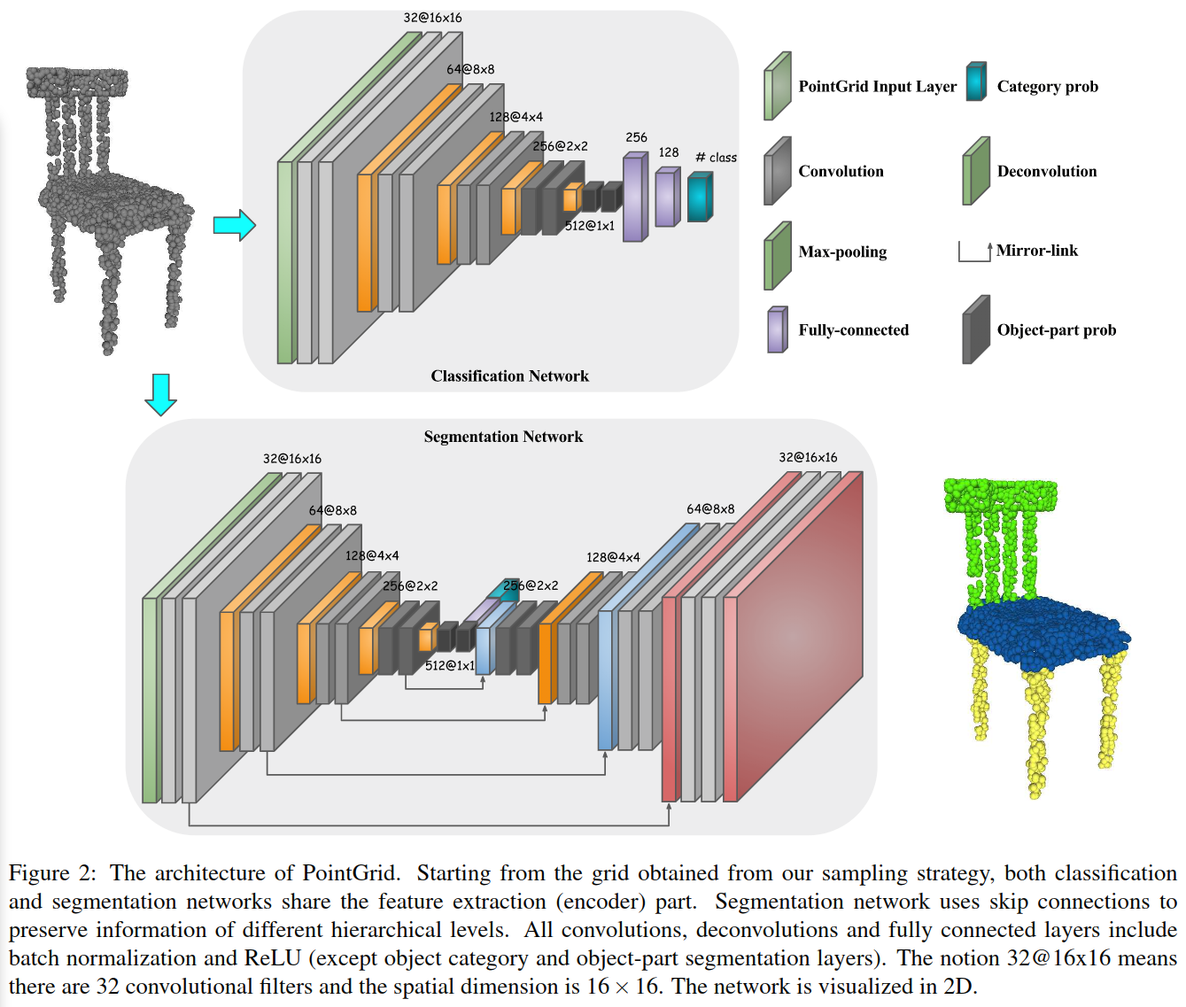
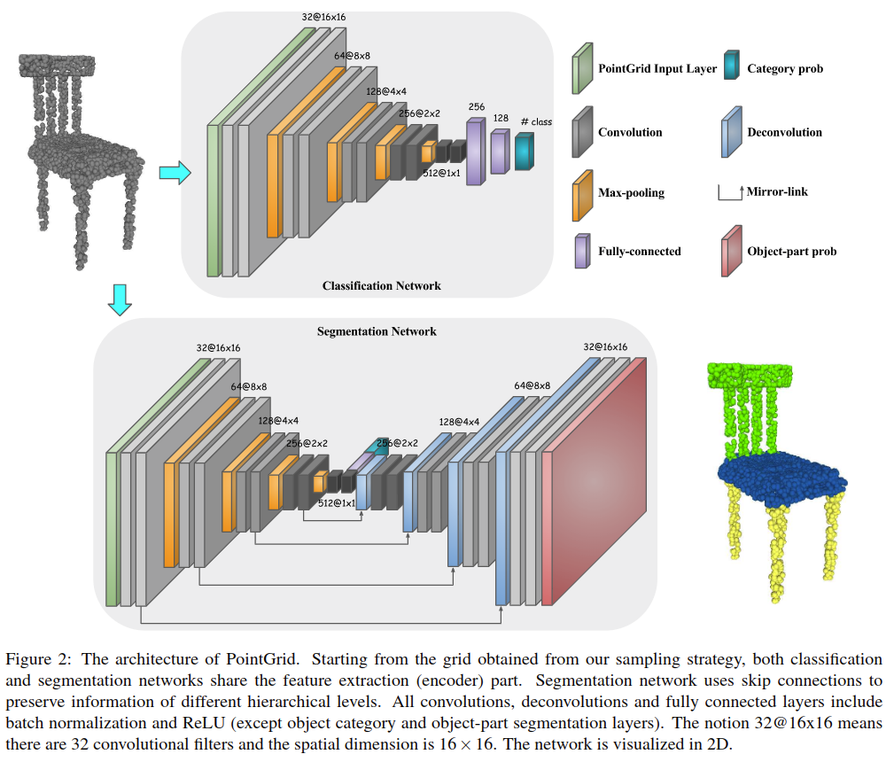
update

diff --git a/js/list.js b/js/list.js
@@ -1,4 +1,4 @@
-function information_list(){ return [['3D Graph Embedding Learning with a Structure-aware Loss Function for Point Cloud Semantic Instance Segmentation','Point Cloud,Semantic Segmentation,Instance Segmentation','2019','更新済'],['3D Point Cloud Registration for Localization using a Deep Neural Network Auto-Encoder','Registration,Point Cloud,AutoEncoder','2017','修正'],['3D Semantic Segmentation with Submanifold Sparse Convolutional Networks','Point Cloud,Sparsity,Semantic Segmentation','2017','省略'],['Adaptive O-CNN A Patch-based Deep Representation of 3D Shapes','Classification,Voxel','2018','更新済'],['Associatively Segmenting Instances and Semantics in Point Clouds','Point Cloud,Instance Segmentation,Semantic Segmentation','2019','更新済'],['Boosting Self-Supervised Learning via Knowledge Transfer','2D Image,Classification,Self-Supervised Learning','2018','省略'],['CNN-SLAM Real-time dense monocular SLAM with learned depth prediction','2D Image,SLAM','2017','修正'],['Conditional Image Synthesis With Auxiliary Classifier GANs','2D Image,GAN','2016','更新済'],['Context Prediction for Unsupervised Deep Learning on Point Clouds','Classification,Point Cloud,Semantic Segmentation,Self-Supervised Learning','2019','更新済'],['Cost-Effective Active Learning for Deep Image Classification','2D Image,Active Learning','2017','未完'],['Deep Clustring for Unsupervised Learning of Visual Features','2D Image,Self-Supervised Learning','2018','省略'],['Deep One-Class Classification','2D Image,One-Class & Anomaly Detection','2018','更新済'],['DeformNet Free-Form Deformation Network for 3D Shape Reconstruction from a Single Image','2D Image,Voxel,3D Estimation','2017','参照'],['Discriminative Unsupervised Feature Learning with Convolutional Neural Networks','2D Image,Data Augmentation','2014','未完'],['Dynamic Edge-Conditioned Filters in Convolutional Neural Networks on Graphs','Graph,Point Cloud','2017','未完'],['Dynamic Graph CNN for Learning on Point Cloud','Classification,Point Cloud,Semantic Segmentation','2018','更新済'],['Fast R-CNN','Detection,2D Image','2015','省略'],['Faster R-CNN Towards Real-Time Object Detection with Region Proposal Networks','2D Image,Detection,Semantic Segmentation','2015','省略'],['FlowNet3D Learning Scene Flow in 3D Point Clouds','Point Cloud,Flow Estimation','2018','更新済'],['FoldingNet Point Cloud Auto-encoder via Deep Grid Deformation','Point Cloud,AutoEncoder','2017','更新済'],['Frustum PointNets for 3D Object Detection from RGB-D Data','Point Cloud,Detection,2D Image','2017','未完'],['Fully Convolutional Instance-aware Semantic Segmentation','2D Image,Instance Segmentation','2016','未完'],['GSPN Generative Shape Proposal Network for 3D Instance Segmentation in Point Cloud','Point Cloud,Semantic Segmentation,Instance Segmentation','2018','未完'],['Generating 3D Adversarial Point Clouds','Point Cloud,Adversarial Examples','2018','更新済'],['Generating Mesh-based Shapes From Learned Latent Spaces of Point Clouds with VAE-GAN','Point Cloud,GAN,Mesh','2018','更新済'],['Grad-CAM Visual Explanations from Deep Networks via Gradient-based Localization','2D Image,Analytics','2016','更新済'],['High-Resolution Image Synthesis and Semantic Manipulation with Conditional GANs','2D Image,GAN,Semantic Segmentation','2017','更新済'],['ImageNet-trained CNNs are biased towards texture increasing shape bias improves accuracy and robustness','2D Image,Analytics','2018','更新済'],['Improving Few-Shot User-Specific Gaze Adaptation via Gaze Redirection Synthesis','Few-Shot,Self-Supervised Learning,Domain Adaptation,Gaze Estimation,Synthetic','2019','省略'],['Improving Spatiotemporal Self-Supervision by Deep Reinforcement Learning','Reinforcement Learning,Self-Supervised Learning','2018','省略'],['Interpreting Deep Visual Representations via Network Dissection','2D Image,Analytics,Interpretability','2017','省略'],['LBS Autoencoder Self-supervised Fitting of Articulated Meshes to Point Clouds','Point Cloud,Self-Supervised Learning,AutoEncoder,Mesh','2019','省略'],['LSD-SLAM Large-Scale Direct Monocular SLAM','SLAM,2D Image','2014','未完'],['Label-Noise Robust Generative Adversarial Networks','GAN,2D Image','2018','省略'],['Learning Feature Representations with K-means','2D Image','2012','未完'],['Learning Localized Generative Models for 3D Point Clouds via Graph Convolution','Point Cloud,GAN','2018','更新済'],['Learning Representations and Generative Models for 3D Point Clouds','AutoEncoder,Classification,GAN,Point Cloud','2017','更新済'],['Learning Shape Priors for Single-View 3D Completion and Reconstruction','2D Image,Voxel,3D Estimation','2018','更新済'],['Learning a Probabilistic Latent Space of Object Shapes  via 3D Generative-Adversarial Modeling','Voxel,GAN','2016','更新済'],['Learning deep representations by mutual information estimation and maximization','2D Image,Self-Supervised Learning','2018','未完'],['Learning from Massive Noisy Labeled Data for Image Classification','2D Image','2015','省略'],['Learning from Simulated and Unsupervised Images through Adversarial Training','GAN,Synthetic,2D Image','2016','更新済'],['MarrNet 3D Shape Reconstruction via 2.5D Sketches','2D Image,Voxel,3D Estimation','2017','更新済'],['Mean Shift A Robust Approach toward Feature Space Analysis','Point Cloud,2D Image','2002','参照'],['Mining Point Cloud local Structures by Kernel Correlation and Graph Pooling','Point Cloud,Classification,Semantic Segmentation','2018','更新済'],['Object Detectors Emerge in Deep Scene CNNs','2D Image','2014','未完'],['Object-Contrastive Networks Unsupervised Object Representations','2D Image,Detection','2018','未完'],['Occupancy Networks Learning 3D Reconstruction in Function Space','2D Image,Voxel,Point Cloud,Mesh,3D Estimation','2018','更新済'],['OctNet Learning Deep 3D Representations at High Resolutions','Voxel,Point Cloud,Classification,Semantic Segmentation','2016','更新済'],['PPFNet Global Context Aware Local Features for Robust 3D Point Matching','Point Cloud,Registration','2018','更新済'],['Parallel Tracking and Mapping for Small AR Workspaces','SLAM,2D Image','2007','未完'],['PartNet A Recursive Part Decomposition Network for Fine-grained and Hierarchical Shape Segmentation','Point Cloud,Instance Segmentation,Semantic Segmentation,TreeRNN','2019','更新済'],['Pix3D Dataset and Methods for Single-Image 3D Shape Modeling','3D Estimation,2D Image,Voxel,Dataset','2018','更新済'],['Point Cloud Colorization Based on Densely Annotated 3D Shape Dataset','Point Cloud,Dataset,GAN','2018','更新済'],['Point Cloud Oversegmentation with Graph-Structured Deep Metric Learning','Point Cloud','2019','未完'],['Point2Sequence Learning the Shape Representation of 3D Point Clouds with an Attention-based Sequence to Sequence Network','Classification,Point Cloud,Semantic Segmentation,RNN','2018','更新済'],['PointGrid A Deep Network for 3D Shape Understanding','Point Cloud','2018','未完'],['PointNet Deep Learning on Point Sets for 3D Classification and Segmentation','Classification,Point Cloud,Semantic Segmentation','2016','更新済'],['PointNet++ Deep Hierarchical Feature Learning on Point Sets in a Metric Space','Point Cloud,Classification,Semantic Segmentation','2017','未完'],['PointNetLK Robust & Efficient Point Cloud Registration using PointNet','Point Cloud','2019','未完'],['PointRCNN 3D Object Proposal Generation and Detection from Point Cloud','Point Cloud,Detection','2018','未完'],['Pointwise Convolutional Neural Networks','Point Cloud,Classification,Semantic Segmentation','2017','更新済'],['Recent Progress on Generative Adversarial Networks (GANs) A Survey','GAN,Survey','2019','更新済'],['Recurrent Slice Networks for 3D Segmentation of Point Clouds','Point Cloud,Semantic Segmentation,RNN','2018','更新済'],['Representation Learning by Learning to Count','2D Image,Self-Supervised Learning','2017','更新済'],['Representation Tradeoffs for Hyperbolic Embeddings','','2018','未完'],['Rich feature hierarchies for accurate object detection and semantic segmentation ','2D Image,Detection','2013','省略'],['SGPN Similarity Group Proposal Network for 3D Point Cloud Instance Segmentation','Point Cloud,Instance Segmentation,Semantic Segmentation','2017','更新済'],['SelFlow Self-Supervised Learning of Optical Flow','2D Image,Flow Estimation,Self-Supervised Learning','2019','省略'],['Self-Supervised Audio-Visual Co-Segmentation','Self-Supervised Learning,Video','2019','省略'],['Self-Supervised Feature Learning by Learning to Spot Artifacts','2D Image,Self-Supervised Learning','2018','省略'],['Self-Supervised Relative Depth Learning for Urban Scene Understanding','Self-Supervised Learning,Depth Estimation,Domain Adaptation','2017','未完'],['Shuffle and Learn Unsupervised Learning using Temporal Order Verification','Video,Self-Supervised Learning','2016','省略'],['SiCloPe Silhouette-Based Clothed People','2D Image,3D Estimation','2018','修正'],['Sparse 3D convolutional neural networks','Voxel,Sparsity','2015','省略'],['Sparse Convolutional Neural Networks','2D Image,Sparsity','2015','未完'],['Spatially-sparse convolutional neural networks','2D Image,Sparsity','2014','省略'],['Tangent Convolutions for Dense Prediction in 3D','Point Cloud,Semantic Segmentation','2018','修正'],['Temporal Cycle-Consistency Learning','Video,Self-Supervised Learning,Few-Shot','2019','未完'],['The Sound of Pixels','Video','2018','未完'],['Time-Contrastive Networks Self-Supervised Learning from Video','Video,Self-Supervised Learning,Robot','2017','省略'],['Towards Human-Machine Cooperation Self-supervised Sample Mining for Object Detection','2D Image,Active Learning','2018','未完'],['Unpaired Image-to-Image Translation using Cycle-Consistent Adversarial Networks','2D Image,GAN','2017','参照'],['Unsupervised Anomaly Detection with Generative Adversarial Networks to Guide Marker Discovery','2D Image,GAN,One-Class & Anomaly Detection','2017','更新済'],['Unsupervised Deep Learning of Mid-Level Video Representation for Action Recognition','Video','2018','未完'],['Unsupervised Domain Adaptation for Semantic Segmentation via Class-Balanced Self-Training','Domain Adaptation,2D Image','2018','更新済'],['Unsupervised Image Segmentation by Backpropagation','2D Image','2018','省略'],['Unsupervised Learning by Predicting Noise','2D Image,Self-Supervised Learning','2017','未完'],['Unsupervised Learning of Depth and Ego-Motion from Video','Video','2017','未完'],['Unsupervised Learning of Shape and Pose with Differentiable Point Clouds','2D Image,Point Cloud,3D Estimation','2018','更新済'],['Unsupervised Learning of Visual Representations by Solving Jigsaw Puzzles','2D Image,Classification,Self-Supervised Learning','2016','更新済'],['Unsupervised Object Segmentation in Video by Efficient Selection of Highly Probable Positive Features','2D Image','2017','未完'],['Unsupervised Representation Learning by Predicting Image Rotations','2D Image,Self-Supervised Learning','2018','更新済'],['Unsupervised Representation Learning with Deep Convolutional Generative Adversarial Networks','GAN,2D Image','2015','更新済'],['Unsupervised Visual Representation Learning by Context Prediction','2D Image,Classification,Self-Supervised Learning','2015','更新済'],['VoxelNet End-to-End Learning for Point Cloud Based 3D Object Detection','Detection,Point Cloud','2017','更新済']]}
+function information_list(){ return [['3D Graph Embedding Learning with a Structure-aware Loss Function for Point Cloud Semantic Instance Segmentation','Point Cloud,Semantic Segmentation,Instance Segmentation','2019','更新済'],['3D Point Cloud Registration for Localization using a Deep Neural Network Auto-Encoder','Registration,Point Cloud,AutoEncoder','2017','修正'],['3D Semantic Segmentation with Submanifold Sparse Convolutional Networks','Point Cloud,Sparsity,Semantic Segmentation','2017','省略'],['Adaptive O-CNN A Patch-based Deep Representation of 3D Shapes','Classification,Voxel','2018','更新済'],['Associatively Segmenting Instances and Semantics in Point Clouds','Point Cloud,Instance Segmentation,Semantic Segmentation','2019','更新済'],['Boosting Self-Supervised Learning via Knowledge Transfer','2D Image,Classification,Self-Supervised Learning','2018','省略'],['CNN-SLAM Real-time dense monocular SLAM with learned depth prediction','2D Image,SLAM','2017','修正'],['Conditional Image Synthesis With Auxiliary Classifier GANs','2D Image,GAN','2016','更新済'],['Context Prediction for Unsupervised Deep Learning on Point Clouds','Classification,Point Cloud,Semantic Segmentation,Self-Supervised Learning','2019','更新済'],['Cost-Effective Active Learning for Deep Image Classification','2D Image,Active Learning','2017','未完'],['Deep Clustring for Unsupervised Learning of Visual Features','2D Image,Self-Supervised Learning','2018','省略'],['Deep One-Class Classification','2D Image,One-Class & Anomaly Detection','2018','更新済'],['DeformNet Free-Form Deformation Network for 3D Shape Reconstruction from a Single Image','2D Image,Voxel,3D Estimation','2017','参照'],['Discriminative Unsupervised Feature Learning with Convolutional Neural Networks','2D Image,Data Augmentation','2014','未完'],['Dynamic Edge-Conditioned Filters in Convolutional Neural Networks on Graphs','Graph,Point Cloud','2017','未完'],['Dynamic Graph CNN for Learning on Point Cloud','Classification,Point Cloud,Semantic Segmentation','2018','更新済'],['Fast R-CNN','Detection,2D Image','2015','省略'],['Faster R-CNN Towards Real-Time Object Detection with Region Proposal Networks','2D Image,Detection,Semantic Segmentation','2015','省略'],['FlowNet3D Learning Scene Flow in 3D Point Clouds','Point Cloud,Flow Estimation','2018','更新済'],['FoldingNet Point Cloud Auto-encoder via Deep Grid Deformation','Point Cloud,AutoEncoder','2017','更新済'],['Frustum PointNets for 3D Object Detection from RGB-D Data','Point Cloud,Detection,2D Image','2017','未完'],['Fully Convolutional Instance-aware Semantic Segmentation','2D Image,Instance Segmentation','2016','未完'],['GSPN Generative Shape Proposal Network for 3D Instance Segmentation in Point Cloud','Point Cloud,Semantic Segmentation,Instance Segmentation','2018','未完'],['Generating 3D Adversarial Point Clouds','Point Cloud,Adversarial Examples','2018','更新済'],['Generating Mesh-based Shapes From Learned Latent Spaces of Point Clouds with VAE-GAN','Point Cloud,GAN,Mesh','2018','更新済'],['Grad-CAM Visual Explanations from Deep Networks via Gradient-based Localization','2D Image,Analytics','2016','更新済'],['High-Resolution Image Synthesis and Semantic Manipulation with Conditional GANs','2D Image,GAN,Semantic Segmentation','2017','更新済'],['ImageNet-trained CNNs are biased towards texture increasing shape bias improves accuracy and robustness','2D Image,Analytics','2018','更新済'],['Improving Few-Shot User-Specific Gaze Adaptation via Gaze Redirection Synthesis','Few-Shot,Self-Supervised Learning,Domain Adaptation,Gaze Estimation,Synthetic','2019','省略'],['Improving Spatiotemporal Self-Supervision by Deep Reinforcement Learning','Reinforcement Learning,Self-Supervised Learning','2018','省略'],['Interpreting Deep Visual Representations via Network Dissection','2D Image,Analytics,Interpretability','2017','省略'],['LBS Autoencoder Self-supervised Fitting of Articulated Meshes to Point Clouds','Point Cloud,Self-Supervised Learning,AutoEncoder,Mesh','2019','省略'],['LSD-SLAM Large-Scale Direct Monocular SLAM','SLAM,2D Image','2014','未完'],['Label-Noise Robust Generative Adversarial Networks','GAN,2D Image','2018','省略'],['Learning Feature Representations with K-means','2D Image','2012','未完'],['Learning Localized Generative Models for 3D Point Clouds via Graph Convolution','Point Cloud,GAN','2018','更新済'],['Learning Representations and Generative Models for 3D Point Clouds','AutoEncoder,Classification,GAN,Point Cloud','2017','更新済'],['Learning Shape Priors for Single-View 3D Completion and Reconstruction','2D Image,Voxel,3D Estimation','2018','更新済'],['Learning a Probabilistic Latent Space of Object Shapes  via 3D Generative-Adversarial Modeling','Voxel,GAN','2016','更新済'],['Learning deep representations by mutual information estimation and maximization','2D Image,Self-Supervised Learning','2018','未完'],['Learning from Massive Noisy Labeled Data for Image Classification','2D Image','2015','省略'],['Learning from Simulated and Unsupervised Images through Adversarial Training','GAN,Synthetic,2D Image','2016','更新済'],['MarrNet 3D Shape Reconstruction via 2.5D Sketches','2D Image,Voxel,3D Estimation','2017','更新済'],['Mean Shift A Robust Approach toward Feature Space Analysis','Point Cloud,2D Image','2002','参照'],['Mining Point Cloud local Structures by Kernel Correlation and Graph Pooling','Point Cloud,Classification,Semantic Segmentation','2018','更新済'],['Object Detectors Emerge in Deep Scene CNNs','2D Image','2014','未完'],['Object-Contrastive Networks Unsupervised Object Representations','2D Image,Detection','2018','未完'],['Occupancy Networks Learning 3D Reconstruction in Function Space','2D Image,Voxel,Point Cloud,Mesh,3D Estimation','2018','更新済'],['OctNet Learning Deep 3D Representations at High Resolutions','Voxel,Point Cloud,Classification,Semantic Segmentation','2016','更新済'],['PPFNet Global Context Aware Local Features for Robust 3D Point Matching','Point Cloud,Registration','2018','更新済'],['Parallel Tracking and Mapping for Small AR Workspaces','SLAM,2D Image','2007','未完'],['PartNet A Recursive Part Decomposition Network for Fine-grained and Hierarchical Shape Segmentation','Point Cloud,Instance Segmentation,Semantic Segmentation,TreeRNN','2019','更新済'],['Pix3D Dataset and Methods for Single-Image 3D Shape Modeling','3D Estimation,2D Image,Voxel,Dataset','2018','更新済'],['Point Cloud Colorization Based on Densely Annotated 3D Shape Dataset','Point Cloud,Dataset,GAN','2018','更新済'],['Point Cloud Oversegmentation with Graph-Structured Deep Metric Learning','Point Cloud','2019','未完'],['Point2Sequence Learning the Shape Representation of 3D Point Clouds with an Attention-based Sequence to Sequence Network','Classification,Point Cloud,Semantic Segmentation,RNN','2018','更新済'],['PointGrid A Deep Network for 3D Shape Understanding','Point Cloud,Classification,Semantic Segmentation','2018','更新済'],['PointNet Deep Learning on Point Sets for 3D Classification and Segmentation','Classification,Point Cloud,Semantic Segmentation','2016','更新済'],['PointNet++ Deep Hierarchical Feature Learning on Point Sets in a Metric Space','Point Cloud,Classification,Semantic Segmentation','2017','未完'],['PointNetLK Robust & Efficient Point Cloud Registration using PointNet','Point Cloud','2019','未完'],['PointRCNN 3D Object Proposal Generation and Detection from Point Cloud','Point Cloud,Detection','2018','未完'],['Pointwise Convolutional Neural Networks','Point Cloud,Classification,Semantic Segmentation','2017','更新済'],['Recent Progress on Generative Adversarial Networks (GANs) A Survey','GAN,Survey','2019','更新済'],['Recurrent Slice Networks for 3D Segmentation of Point Clouds','Point Cloud,Semantic Segmentation,RNN','2018','更新済'],['Representation Learning by Learning to Count','2D Image,Self-Supervised Learning','2017','更新済'],['Representation Tradeoffs for Hyperbolic Embeddings','','2018','未完'],['Rich feature hierarchies for accurate object detection and semantic segmentation ','2D Image,Detection','2013','省略'],['SGPN Similarity Group Proposal Network for 3D Point Cloud Instance Segmentation','Point Cloud,Instance Segmentation,Semantic Segmentation','2017','更新済'],['SelFlow Self-Supervised Learning of Optical Flow','2D Image,Flow Estimation,Self-Supervised Learning','2019','省略'],['Self-Supervised Audio-Visual Co-Segmentation','Self-Supervised Learning,Video','2019','省略'],['Self-Supervised Feature Learning by Learning to Spot Artifacts','2D Image,Self-Supervised Learning','2018','省略'],['Self-Supervised Relative Depth Learning for Urban Scene Understanding','Self-Supervised Learning,Depth Estimation,Domain Adaptation','2017','未完'],['Shuffle and Learn Unsupervised Learning using Temporal Order Verification','Video,Self-Supervised Learning','2016','省略'],['SiCloPe Silhouette-Based Clothed People','2D Image,3D Estimation','2018','修正'],['Sparse 3D convolutional neural networks','Voxel,Sparsity','2015','省略'],['Sparse Convolutional Neural Networks','2D Image,Sparsity','2015','未完'],['Spatially-sparse convolutional neural networks','2D Image,Sparsity','2014','省略'],['Tangent Convolutions for Dense Prediction in 3D','Point Cloud,Semantic Segmentation','2018','修正'],['Temporal Cycle-Consistency Learning','Video,Self-Supervised Learning,Few-Shot','2019','未完'],['The Sound of Pixels','Video','2018','未完'],['Time-Contrastive Networks Self-Supervised Learning from Video','Video,Self-Supervised Learning,Robot','2017','省略'],['Towards Human-Machine Cooperation Self-supervised Sample Mining for Object Detection','2D Image,Active Learning','2018','未完'],['Unpaired Image-to-Image Translation using Cycle-Consistent Adversarial Networks','2D Image,GAN','2017','参照'],['Unsupervised Anomaly Detection with Generative Adversarial Networks to Guide Marker Discovery','2D Image,GAN,One-Class & Anomaly Detection','2017','更新済'],['Unsupervised Deep Learning of Mid-Level Video Representation for Action Recognition','Video','2018','未完'],['Unsupervised Domain Adaptation for Semantic Segmentation via Class-Balanced Self-Training','Domain Adaptation,2D Image','2018','更新済'],['Unsupervised Image Segmentation by Backpropagation','2D Image','2018','省略'],['Unsupervised Learning by Predicting Noise','2D Image,Self-Supervised Learning','2017','未完'],['Unsupervised Learning of Depth and Ego-Motion from Video','Video','2017','未完'],['Unsupervised Learning of Shape and Pose with Differentiable Point Clouds','2D Image,Point Cloud,3D Estimation','2018','更新済'],['Unsupervised Learning of Visual Representations by Solving Jigsaw Puzzles','2D Image,Classification,Self-Supervised Learning','2016','更新済'],['Unsupervised Object Segmentation in Video by Efficient Selection of Highly Probable Positive Features','2D Image','2017','未完'],['Unsupervised Representation Learning by Predicting Image Rotations','2D Image,Self-Supervised Learning','2018','更新済'],['Unsupervised Representation Learning with Deep Convolutional Generative Adversarial Networks','GAN,2D Image','2015','更新済'],['Unsupervised Visual Representation Learning by Context Prediction','2D Image,Classification,Self-Supervised Learning','2015','更新済'],['VoxelNet End-to-End Learning for Point Cloud Based 3D Object Detection','Detection,Point Cloud','2017','更新済']]}
 function tag_list(){ return ['','2D Image','3D Estimation','Active Learning','Adversarial Examples','Analytics','AutoEncoder','Classification','Data Augmentation','Dataset','Depth Estimation','Detection','Domain Adaptation','Few-Shot','Flow Estimation','GAN','Gaze Estimation','Graph','Instance Segmentation','Interpretability','Mesh','One-Class & Anomaly Detection','Point Cloud','RNN','Registration','Reinforcement Learning','Robot','SLAM','Self-Supervised Learning','Semantic Segmentation','Sparsity','Survey','Synthetic','TreeRNN','Video','Voxel']}
 function date_tag_list(){ return [2002,2007,2012,2013,2014,2015,2016,2017,2018,2019]}
 function information_list_c(){ return [['Dive into Deep Learning','','????','????'],['Entropy','Entropy','????','????'],['Hyperbolic Geometry','Hyperbolic Geometry','????','????'],['Machine Learning','Math,Optimization,Curriculum learning','????','????'],['Point cloud','Point Cloud,Registration','????','????'],['Preprocessing','Preprocessing,2D Image','????','????'],['SLAM','SLAM,2D Image','????','????'],['Self-Organizing Map','','????','????'],['Self-supervised','Self-supervised,2D Image,Fine-tuning,Transfer learning','????','????'],['Skinning','','????','????']]}

diff --git a/papers/PointGrid A Deep Network for 3D Shape Understanding.md b/papers/PointGrid A Deep Network for 3D Shape Understanding.md
@@ -4,23 +4,51 @@
 Github Issues : 
 
 ## どんなもの?
+点の座標値を特徴量とするボクセルを畳み込むネットワークを提案した。
 
 ## 先行研究と比べてどこがすごいの?
+各セルに体積情報の代わりに点群の座標値を組み込むことで、低解像度なボクセルでも詳細な幾何学情報を扱える様になった。
 
 ## 技術や手法のキモはどこ? or 提案手法の詳細
-本提案手法では占有グリッド(ボクセル表現)を使う手法とは異なり、各セル内に$K$個の点を配置することで出来上がるオブジェクトの点群を処理する。具体的には、図1に含まれる
+本提案手法では占有グリッドを使う手法とは異なり、セル内の$K$個の点(点には座標値が含まれる)を特徴量として畳み込む。オブジェクトの形状(図1の(a))をかたどった点群(図1の(b))が入力されるとき、以下の処理が行われる。
+
+2. 点群を$[-1,1]^3$で正規化する。
+3. 内部に点が含まれているセルのみ点を$K$個にする。セル内の点が$K$個以上である場合は$K$個の点になるようにランダムに点を減らし、$K$個以下である場合は$K$個になるようにセル内の点を複製して増やす(図1の(e))。点が0個であるセルは空のままにする(図1の(e))。論文中ではゼロパディングを模倣したと述べている(図1の(f))。
+4. 結果として$3K$の特徴を持つセルと0のセルで構成された表現になる(点群の座標値を持つボクセル表現)。セル内の点の特徴量をスタックするとあるが、どのようにして$3K$サイズにまとめるのか不明である(見逃した?)。
+5. 各タスク向けに構築されたアーキテクチャに4の表現を入力する(図2)。
 
 ![fig1](img/PADNf3SU/fig1.png)
 
+![fig2](img/PADNf3SU/fig2.png)
+
 ## どうやって有効だと検証した?
+ModelNet40とShapeNet-Core55を使って分類問題を解いた。結果は表1と表2、誤分類した点群モデルは図3に示すとおり。点群では提案手法の精度がPointNet++とKd-Netより0.1%上回っている。表3では$K$とセルの数の変更による提案手法の精度の変化を示している。
+
+![tab1](img/PADNf3SU/tab1.png)
+
+![tab2](img/PADNf3SU/tab2.png)
+
+![fig3](img/PADNf3SU/fig3.png)
+
+![tab3](img/PADNf3SU/tab3.png)
+
+また、図4では提案手法の勾配からアーキテクチャがどの部分に注目しているか視覚化した。色は勾配の大きさを示し、赤は勾配が大きいため点の少しの変化で結果がかなり変わる。青はその逆である。
+
+![fig4](img/PADNf3SU/fig4.png)
+
+### その他
+セマンティックセグメンテーションは省略。
 
 ## 議論はある?
+点の選択方法に例えば[2]を使えば良くなるのでは?
 
 ## 次に読むべき論文は?
 - なし
 
 ## 論文関連リンク
 1. [trucleduc, trucleduc/PointGrid, (アクセス:2019/05/27)](https://github.com/trucleduc/PointGrid)
+2. [Y. Eldar, M. Lindenbaum, M. Porat, and Y. Y. Zeevi. The farthest point strategy for progressive image sampling. IEEE Transactions onImage Processing, 6(9):1305–1315, 9 1997.](https://ieeexplore.ieee.org/document/623193)
+3. [Naoya Chiba. 三次元点群を取り扱うニューラルネットワークのサーベイ. 2018. (アクセス:2019/10/22)](https://www.slideshare.net/naoyachiba18/ss-120302579)
 
 ## 会議
 CVPR 2018
@@ -35,13 +63,13 @@ Truc Le and Ye Duan.
 なし
 
 ## key-words
-Point_Cloud
+Point_Cloud, Classification, Semantic_Segmentation
 
 ## status
-未完
+更新済
 
 ## read
-A, M
+A, M, E, C
 
 ## BibTex
 @article{PointGrid,

diff --git a/papers/Dynamic Edge-Conditioned Filters in Convolutional Neural Networks on Graphs.md b/papers/Dynamic Edge-Conditioned Filters in Convolutional Neural Networks on Graphs.md
@@ -36,5 +36,16 @@ Martin Simonovsky, Nikos Komodakis.
 ## key-words
 Graph, Point_Cloud
 
+## read
+A
+
 ## status
 未完
+
+## BibTex
+@inproceedings{Simonovsky2017ecc,
+    author = {Martin Simonovsky and Nikos Komodakis},
+    title = {Dynamic Edge-Conditioned Filters in Convolutional Neural Networks on Graphs},
+    url = {https://arxiv.org/abs/1704.02901},
+    booktitle = {CVPR},
+    year = {2017}}
